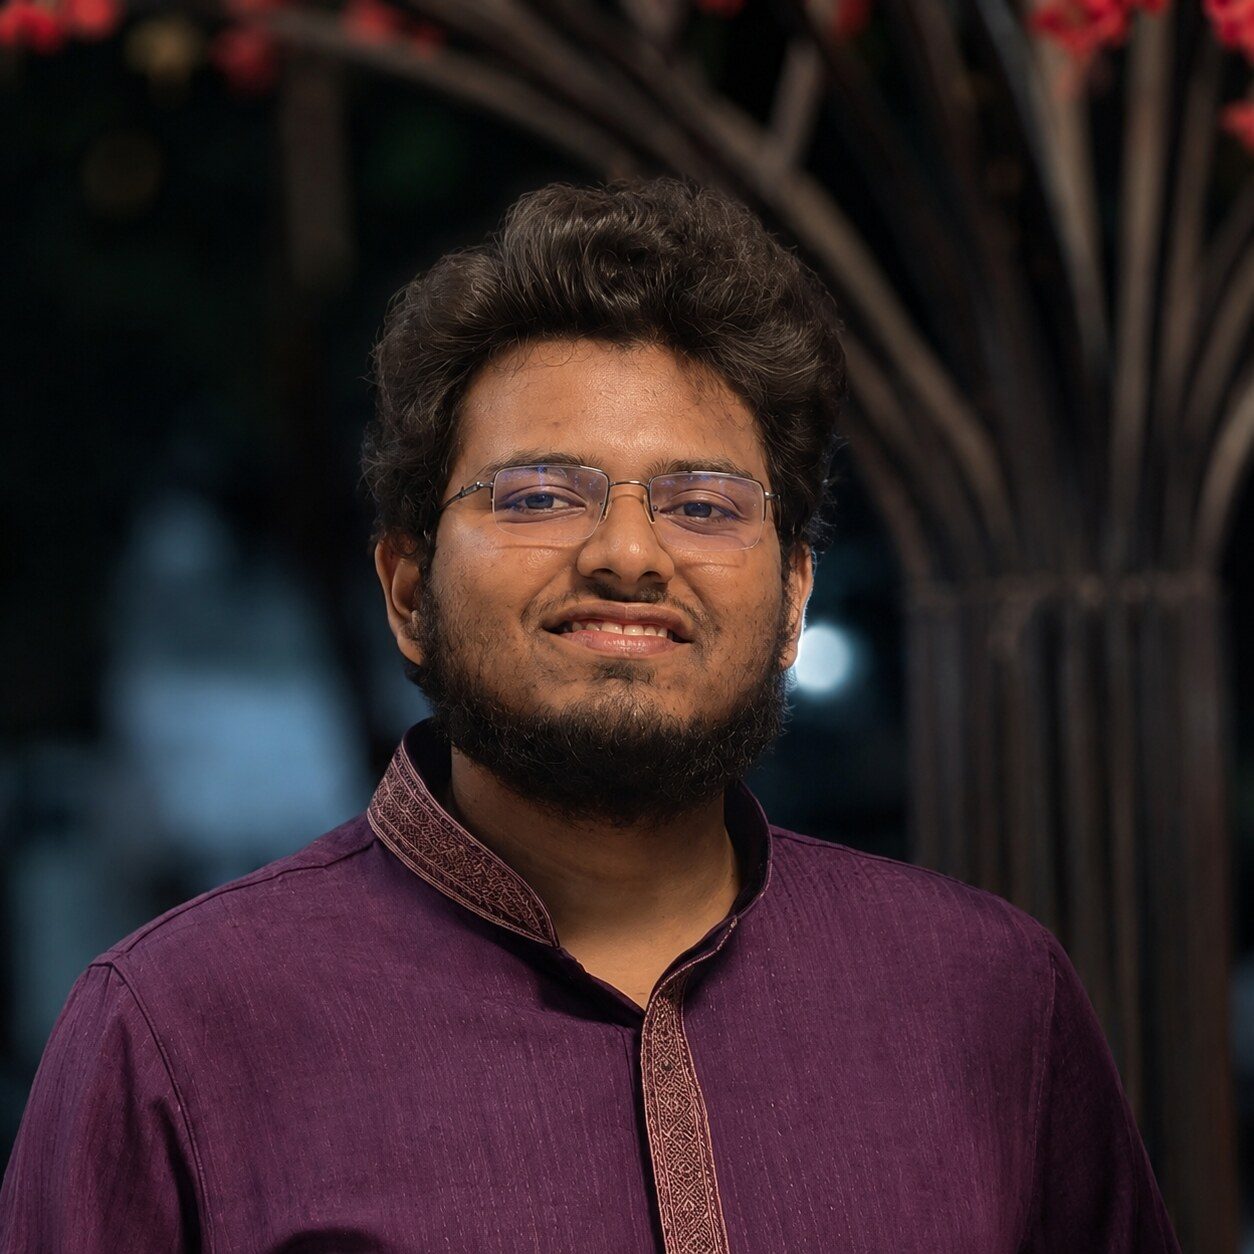
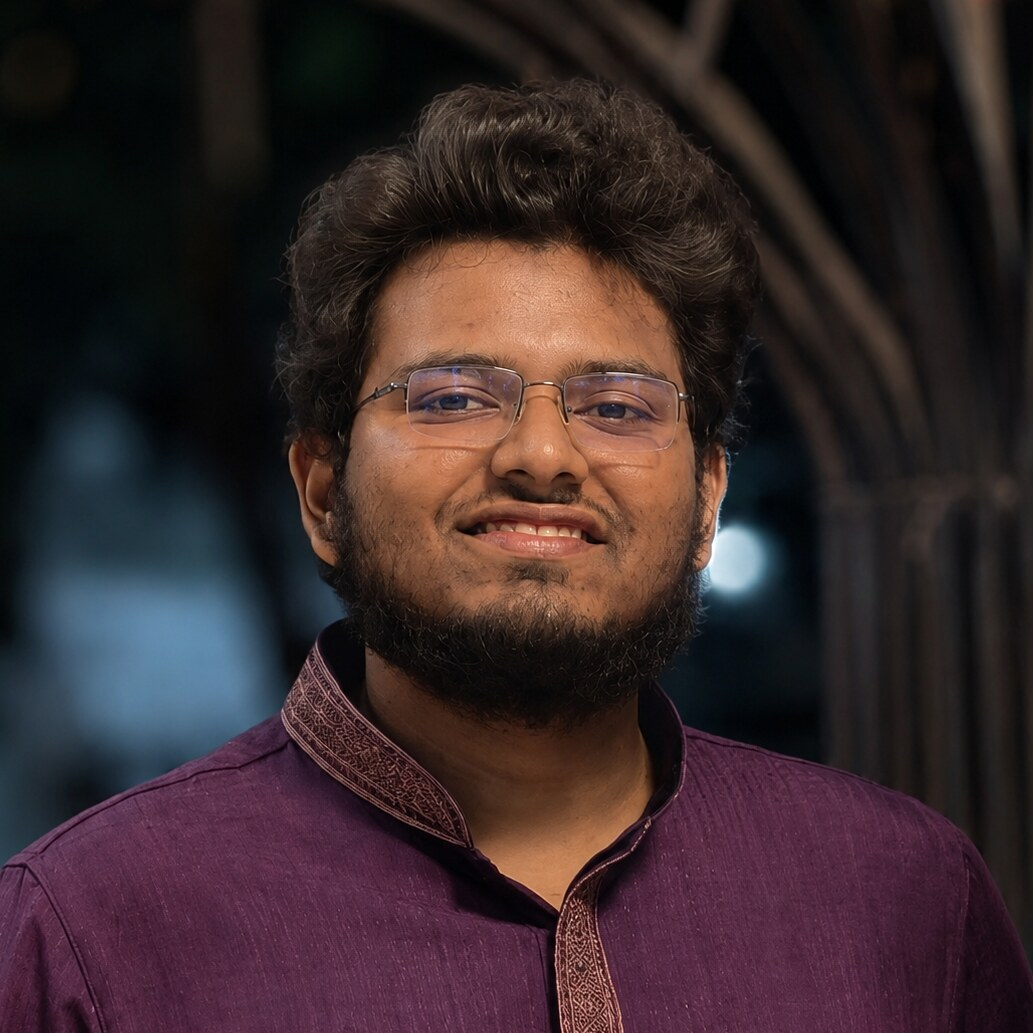
Use the tighter crop of the profile photo
Reconverts public/profile.jpg from the recropped source, 1033x1033 and
156KB, and updates the og:image dimensions to match.

diff --git a/app/layout.tsx b/app/layout.tsx
@@ -43,8 +43,8 @@ export const metadata: Metadata = {
     images: [
       {
         url: "/profile.jpg",
-        width: 1254,
-        height: 1254,
+        width: 1033,
+        height: 1033,
         alt: "Md. Muhaiminul Islam Ninad",
       },
     ],
